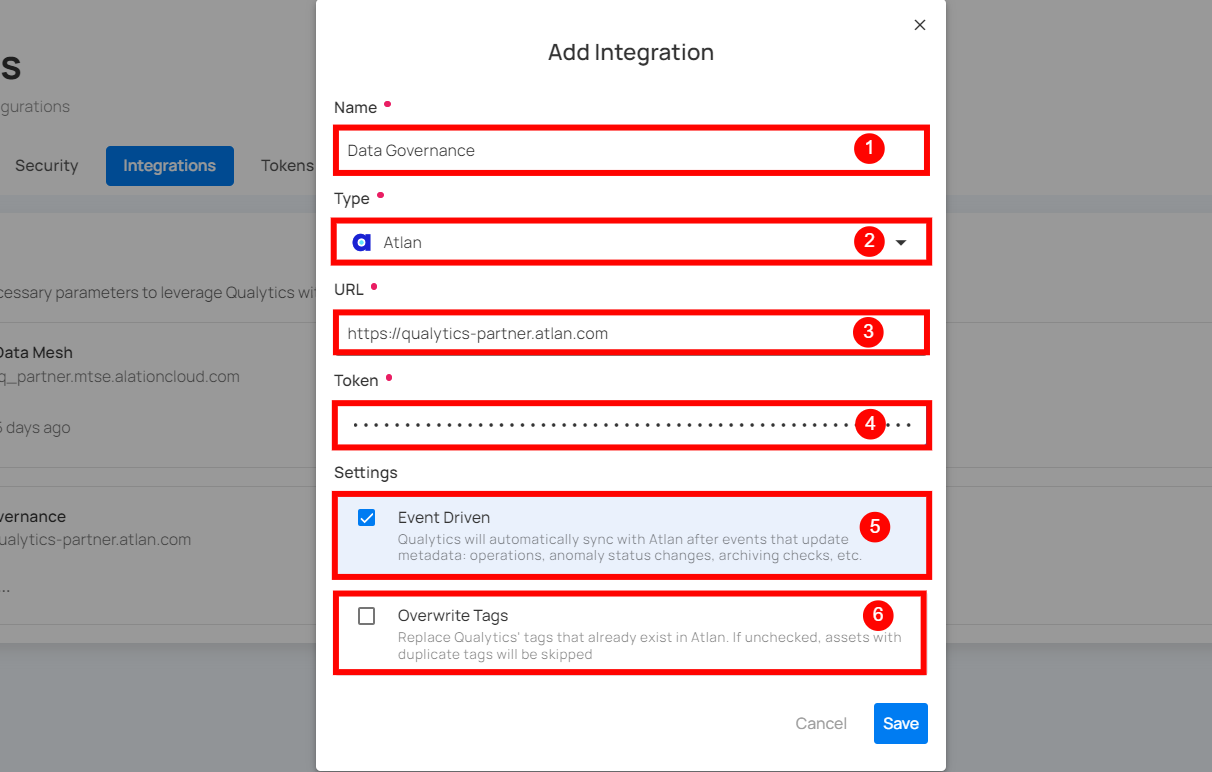
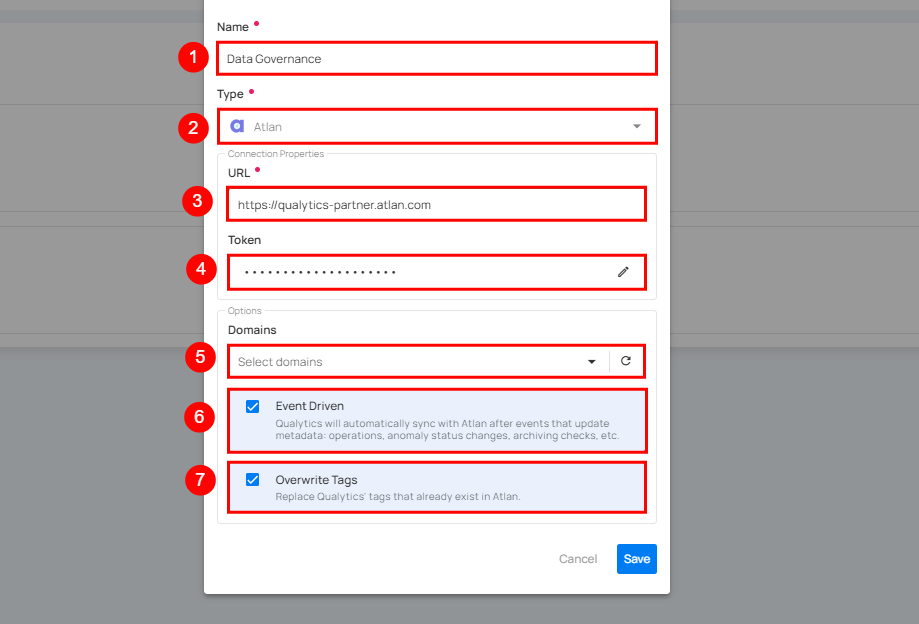
Sc-18784: Update "Atlan" document as per latest release.

diff --git a/docs/settings/integrations/atlan.md b/docs/settings/integrations/atlan.md
@@ -95,11 +95,12 @@ Integrating Atlan with Qualytics enhances your data management capabilities, all
 | 2. | Type (Required) | Choose the type of integration from the dropdown menu. Currently, 'Atlan' is selected |
 | 3. | URL (Required) | The complete address for the Atlan instance, for example: [https://your-company.atlan.com](https://your-company.atlan.com). |
 | 4. | Token (Required) | Provide the authentication token needed to connect to Atlan. |
-| 5. | Event Driven | If enabled, the integration sync will be activated by operations, archiving anomalies, and checks. |
-| 6. | Overwrite Tags | If enabled, Atlan tags will have precedence over Qualytics tags in cases of conflicts (when tags with the same name exist on both platforms). |
+| 5. | Domains | Select specific domains to filter assets for synchronization. <br>- Acts as a filtering mechanism to sync specific assets <br>- Uses domain information from the data catalog (e.g. Sales ). Only assets under the selected domains will synchronize.|
+| 6. | Event Driven | If enabled, the integration sync will be activated by operations, archiving anomalies, and checks. |
+| 7. | Overwrite Tags | If enabled, Atlan tags will have precedence over Qualytics tags in cases of conflicts (when tags with the same name exist on both platforms). |
 
 ![add-atlan-integration](../../assets/integrations/atlan/qualytics-add-atlan-integrations-light.png#only-light)
-![Sadd-atlan-integration](../../assets/integrations/atlan/qualytics-add-atlan-integration-dark.png#only-dark)
+![Sadd-atlan-integration](../../assets/integrations/atlan/qualytics-add-atlan-integrations-dark.png#only-dark)
 
 **Step 5:**  Click on the **Save** button to set up the Atlan integration. 
 
